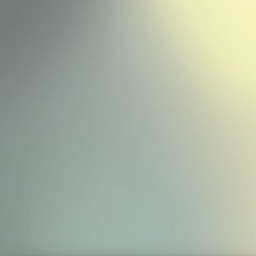
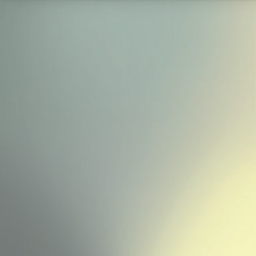
added new colortable lookup shading function

diff --git a/neilpy/test_neilpy.py b/neilpy/test_neilpy.py
@@ -253,9 +253,46 @@ R = ndi.zoom(np.array([[110,242],[128,196]]).astype(np.uint8),8)
 G = ndi.zoom(np.array([[120,245],[148,138]]).astype(np.uint8),8)
 B = ndi.zoom(np.array([[117,173],[138,168]]).astype(np.uint8),8)
 """
-lut = plt.imread('../develop/swiss_shading_lookup.png')[:,:,:3]
+lut = plt.imread('swiss_shading_lookup_flipped.png')[:,:,:3]
 lut = (255*lut).astype(np.uint8)
 
+# Subtract Z_norm from 255 here to invert the colormap
+Z_norm = np.round(255 * (Z - np.min(Z)) / (np.max(Z) - np.min(Z))).astype(np.uint8)
+H = hillshade(Z,cellsize,return_uint8=True)
+
+RGB = np.zeros((np.shape(Z)[0],np.shape(Z)[1],3))
+RGB[:,:,0] = lut[:,:,0][Z_norm.ravel(),H.ravel()].reshape(np.shape(Z))
+RGB[:,:,1] = lut[:,:,1][Z_norm.ravel(),H.ravel()].reshape(np.shape(Z))
+RGB[:,:,2] = lut[:,:,2][Z_norm.ravel(),H.ravel()].reshape(np.shape(Z))
+
+plt.imshow(RGB)
+
+#%% Develop for Swiss Shading; got it!
+
+# Uh, awesome one!
+
+with rasterio.open('../sample_data/sample_dem.tif') as src:
+    Z = src.read(1)
+    Zt = src.affine
+cellsize = Zt[0]
+    
+"""
+color_table = np.zeros((2,2,3),dtype=np.uint8)
+color_table[0,0,:] = [110,120,117] # Top Left
+color_table[0,1,:] = [242,245,173] # Top Right
+color_table[1,0,:] = [128,148,138] # Bottom Left
+color_table[1,1,:] = [196,201,168] # Bottom Right
+
+# Top Left, Top Right, Bottom Left, Bottom Right
+R = ndi.zoom(np.array([[110,242],[128,196]]).astype(np.uint8),8)
+G = ndi.zoom(np.array([[120,245],[148,138]]).astype(np.uint8),8)
+B = ndi.zoom(np.array([[117,173],[138,168]]).astype(np.uint8),8)
+"""
+lut = plt.imread('swiss_shading_lookup.png')[:,:,:3]
+lut = (255*lut).astype(np.uint8)
+
+# Subtract 255 here to invert the colormap!
+# 
 Z_norm = np.round(255 * (Z - np.min(Z)) / (np.max(Z) - np.min(Z))).astype(np.uint8)
 H = hillshade(Z,cellsize,return_uint8=True)
 
@@ -268,12 +305,74 @@ plt.imshow(RGB)
 
 
 #%%
+
+fig = plt.imshow(RGB)
+plt.axis('off')
+fig.axes.get_xaxis().set_visible(False)
+fig.axes.get_yaxis().set_visible(False)
+plt.margins(0,0)
+plt.savefig('just_the_image.png',bbox_inches='tight',pad_inches=0.0)
+
+
+
+#%% play around
 with rasterio.open('../sample_data/sample_dem.tif') as src:
     Z = src.read(1)
     Zt = src.affine
 cellsize = Zt[0]
     
-RGB = swiss_shading(Z,cellsize)
+"""
+color_table = np.zeros((2,2,3),dtype=np.uint8)
+color_table[0,0,:] = [110,120,117] # Top Left
+color_table[0,1,:] = [242,245,173] # Top Right
+color_table[1,0,:] = [128,148,138] # Bottom Left
+color_table[1,1,:] = [196,201,168] # Bottom Right
+"""
+# Top Left, Top Right, Bottom Left, Bottom Right
+#R = ndi.zoom(np.array([[40,116],[90,95]]).astype(np.uint8),128)
+#G = ndi.zoom(np.array([[38,102],[74,77]]).astype(np.uint8),128)
+#B = ndi.zoom(np.array([[74,109],[84,85]]).astype(np.uint8),128)
+#lut = np.stack((R,G,B),axis=2)
+spec = np.array([[90,74,84],[95,77,85],[40,38,74],[116,102,109]]) # dark
+spec = np.array([[129,137,131],[190,192,173],[117,124,121],[244,244,190]]) # swiss
+lut = np.zeros((256,256,3),dtype=np.uint8)
+lut[:,:,0] = ndi.zoom([[spec[0,0],spec[1,0]],[spec[2,0],spec[3,0]]],128)
+lut[:,:,1] = ndi.zoom([[spec[0,1],spec[1,1]],[spec[2,1],spec[3,1]]],128)
+lut[:,:,2] = ndi.zoom([[spec[0,2],spec[1,2]],[spec[2,2],spec[3,2]]],128)
+
+
+#lut = plt.imread('swiss_shading_test.png')[:,:,:3]
+#lut = (255*lut).astype(np.uint8)
+
+Z_norm = np.round(255 * (Z - np.min(Z)) / (np.max(Z) - np.min(Z))).astype(np.uint8)
+H = hillshade(Z,cellsize,return_uint8=True)
+
+#                                                      this is the key
+# without the uint8, it's processed as a float, andthe resulting image is
+# very different (and cool!                                \/
+RGB = np.zeros((np.shape(Z)[0],np.shape(Z)[1],3),dtype=np.uint8)
+RGB[:,:,0] = lut[:,:,0][Z_norm.ravel(),H.ravel()].reshape(np.shape(Z))
+RGB[:,:,1] = lut[:,:,1][Z_norm.ravel(),H.ravel()].reshape(np.shape(Z))
+RGB[:,:,2] = lut[:,:,2][Z_norm.ravel(),H.ravel()].reshape(np.shape(Z))
 
 plt.imshow(RGB)
+
+#%%
+from scipy.misc import imsave
+imsave('lut.png',lut)
+imsave('orig5.png',RGB)
+
+
+#%%
+with rasterio.open('../sample_data/sample_dem.tif') as src:
+    Z = src.read(1)
+    Zt = src.affine
+cellsize = Zt[0]
+
+name = 'swiss'    
+RGB = colortable_shade(Z,name,Zt[0])
+imsave(name + '.png',RGB)
+
+
+
 

diff --git a/neilpy/neilpy.py b/neilpy/neilpy.py
@@ -895,5 +895,31 @@ def swiss_shading(Z,cellsize=1):
     
     return RGB
 
+#%%
+    
+def colortable_shade(Z,name='swiss',cellsize=1):
+    if type(name) == str:
+        if name=='bare_earth_dark':
+            spec = np.array([[90,74,84],[95,77,85],[40,38,74],[116,102,109]])
+        if name=='swiss_dark':
+            spec = np.array([[110,79,107],[190,192,173],[40,38,74],[244,244,190]])
+        elif name=='swiss':
+            spec = np.array([[129,137,131],[190,192,173],[117,124,121],[244,244,190]])
+        elif name=='swiss_green':
+            spec = np.array([[118,162,120],[177,232,158],[111,123,115],[242,254,186]])
+        lut = np.zeros((256,256,3),dtype=np.uint8)
+        lut[:,:,0] = ndi.zoom([[spec[0,0],spec[1,0]],[spec[2,0],spec[3,0]]],128)
+        lut[:,:,1] = ndi.zoom([[spec[0,1],spec[1,1]],[spec[2,1],spec[3,1]]],128)
+        lut[:,:,2] = ndi.zoom([[spec[0,2],spec[1,2]],[spec[2,2],spec[3,2]]],128)
+
+    H= hillshade(Z,cellsize)
+    Z = np.round(255 * (Z - Z.min()) / (Z.max() - Z.min())).astype(np.uint8)
+    
+    RGB = np.zeros((np.shape(Z)[0],np.shape(Z)[1],3),dtype=np.uint8)
+    RGB[:,:,0] = lut[:,:,0][Z.ravel(),H.ravel()].reshape(np.shape(Z))
+    RGB[:,:,1] = lut[:,:,1][Z.ravel(),H.ravel()].reshape(np.shape(Z))
+    RGB[:,:,2] = lut[:,:,2][Z.ravel(),H.ravel()].reshape(np.shape(Z))
+    
+    return RGB
 
 
